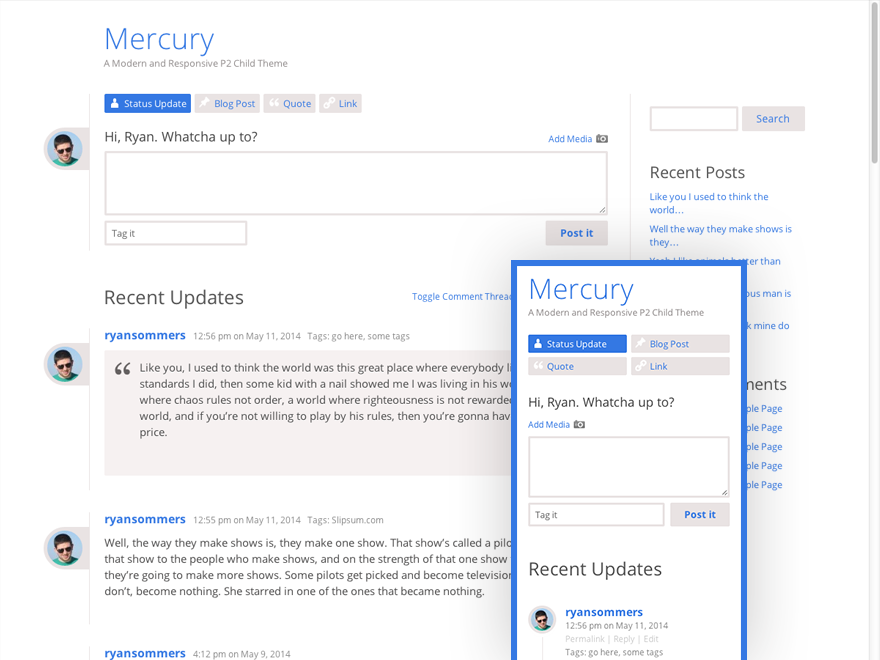
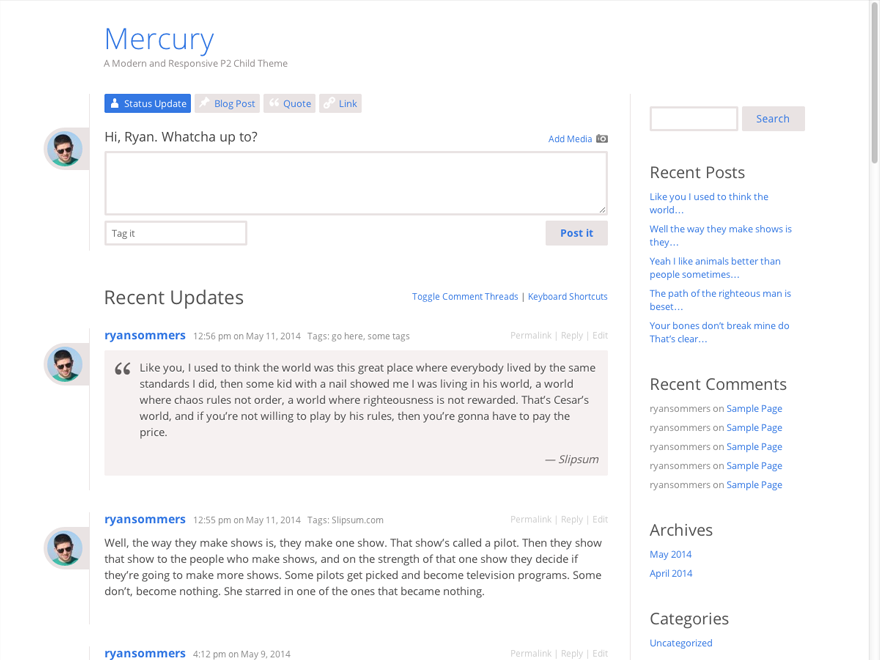
Updated screenshot, description, and readme.
style.css
- Updated description

readme.md
- Added link to WordPress theme directory

screenshot.png
- Updated screenshot for WordPress.org theme directory policies.

Changed region(s): [[0.5523, 0.3636, 0.8591, 1.0]]

diff --git a/style.css b/style.css
@@ -1,11 +1,11 @@
 /*
 Theme Name: Mercury
 Theme URI: http://ryansommers.com/mercury
-Description: A modern and responsive WordPress P2 child theme.
+Description: Enjoy all of WordPress's P2 theme features like inline comments, a posting form right on the homepage, inline editing of posts and comments, real-time updates and more — now with a clean, modern and responsive layout.
 Author: Ryan Sommers
 Author URI: http://ryansommers.com/
 Template: p2
-Version: 1.0.3
+Version: 1.0.4
 License: GNU General Public License v2 or later
 License URI: http://www.gnu.org/licenses/gpl-2.0.html
 Tags: two-columns, responsive-layout, rtl-language-support, right-sidebar, white, light, front-page-post-form, translation-ready, custom-background, custom-header, custom-menu, post-formats, sticky-post, theme-options

diff --git a/readme.md b/readme.md
@@ -22,9 +22,16 @@ This is my first attempt at a child theme, and the first open source project I'v
 ## Demo and Download
 View a demo of the theme at [ryansommers.com/mercury](http://ryansommers.com/mercury).
 
-You can download Mercury at [github.com/ryansommers/mercury](https://github.com/ryansommers/mercury).
+You can download Mercury at [github.com/ryansommers/mercury](https://github.com/ryansommers/mercury) or [wordpress.org/themes/mercury](https://wordpress.org/themes/mercury).
 
 ## Changelog
+
+### Version 1.0.4
+* `style.css`
+  - Changed theme description
+
+* `readme.md`
+  - Added link to Mercury on WordPress.org
 
 ### Version 1.0.3
 * `style.css`
